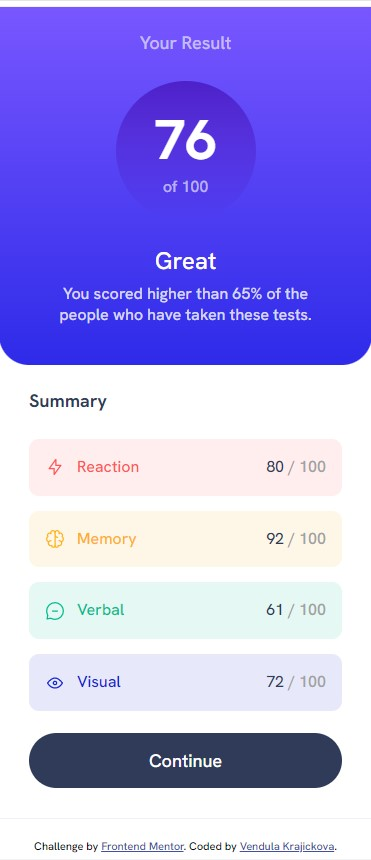
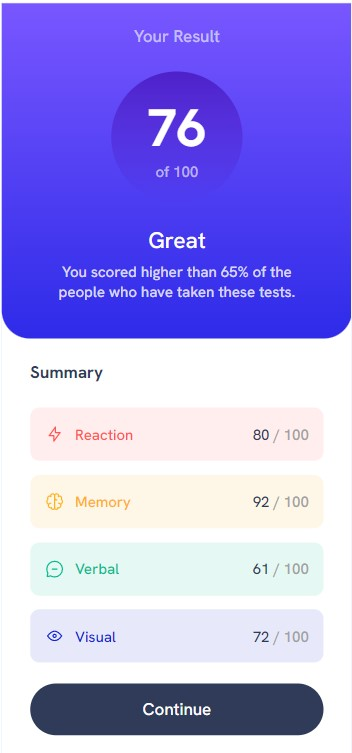
Final version

Changed region(s): [[0.0, 0.0, 1.0, 1.0], [0.4062, 0.1222, 0.5938, 0.2444], [0.7188, 0.5193, 0.7812, 0.5803]]

diff --git a/index.html b/index.html
@@ -34,65 +34,59 @@
     </defs>
   </svg>
 
-  <div class="wrap">
-    <div class="container">
+  <div class="container">
 
-      <div class="header">
-        <div class="header__title">Your Result</div>
-        <div class="header__score">
-          <p class="header__score--min">76</p>
-          <p class="header__score--max">of 100</p>
-        </div>
-
-        <div class="header__result">Great</div>
-        <div class="header__message">You scored higher than 65% of the people who have taken these tests.</div>
+    <div class="header">
+      <div class="header__title">Your Result</div>
+      <div class="header__score">
+        <p class="header__score--min">76</p>
+        <p class="header__score--max">of 100</p>
       </div>
 
-      <div class="content">
-        <p class="content__title">Summary</p>
-
-        <div class="section section--reaction">
-          <svg class="section__icon">
-            <use xlink:href="#icon-reaction"></use>
-          </svg>
-          <p class="section__title section__title--reaction">Reaction</p>
-          <p class="section__score"><span class="section__score--min">80</span> <span class="section__score--max">/ 100</span></p>
-        </div>
-
-        <div class="section section--memory">
-          <svg class="section__icon">
-            <use xlink:href="#icon-memory"></use>
-          </svg>
-          <p class="section__title section__title--memory">Memory</p>
-          <p class="section__score"><span class="section__score--min">92</span> <span class="section__score--max">/ 100</span></p>
-        </div>
-
-        <div class="section section--verbal">
-          <svg class="section__icon">
-            <use xlink:href="#icon-verbal"></use>
-          </svg>
-          <p class="section__title section__title--verbal">Verbal</p>
-          <p class="section__score"><span class="section__score--min">61</span> <span class="section__score--max">/ 100</span></p>
-        </div>
-
-        <div class="section section--visual">
-          <svg class="section__icon">
-            <use xlink:href="#icon-visual"></use>
-          </svg>
-          <p class="section__title section__title--visual">Visual</p>
-          <p class="section__score"><span class="section__score--min">72</span> <span class="section__score--max">/ 100</span></p>
-        </div>
-
-        <div class="button">
-           <p class="button__text">Continue</p>
-          </div>
-      </div>
+      <div class="header__result">Great</div>
+      <div class="header__message">You scored higher than 65% of the people who have taken these tests.</div>
     </div>
 
-    <div class="attribution">
-      Challenge by <a href="https://www.frontendmentor.io?ref=challenge" target="_blank">Frontend Mentor</a>. 
-      Coded by <a href="https://www.frontendmentor.io/profile/wendykr">Vendula Krajickova</a>.
+    <div class="content">
+      <p class="content__title">Summary</p>
+
+      <div class="section section--reaction">
+        <svg class="section__icon">
+          <use xlink:href="#icon-reaction"></use>
+        </svg>
+        <p class="section__title section__title--reaction">Reaction</p>
+        <p class="section__score"><span class="section__score--min">80</span> <span class="section__score--max">/ 100</span></p>
+      </div>
+
+      <div class="section section--memory">
+        <svg class="section__icon">
+          <use xlink:href="#icon-memory"></use>
+        </svg>
+        <p class="section__title section__title--memory">Memory</p>
+        <p class="section__score"><span class="section__score--min">92</span> <span class="section__score--max">/ 100</span></p>
+      </div>
+
+      <div class="section section--verbal">
+        <svg class="section__icon">
+          <use xlink:href="#icon-verbal"></use>
+        </svg>
+        <p class="section__title section__title--verbal">Verbal</p>
+        <p class="section__score"><span class="section__score--min">61</span> <span class="section__score--max">/ 100</span></p>
+      </div>
+
+      <div class="section section--visual">
+        <svg class="section__icon">
+          <use xlink:href="#icon-visual"></use>
+        </svg>
+        <p class="section__title section__title--visual">Visual</p>
+        <p class="section__score"><span class="section__score--min">72</span> <span class="section__score--max">/ 100</span></p>
+      </div>
+
+      <div class="button">
+         <p class="button__text">Continue</p>
+        </div>
     </div>
   </div>
+
 </body>
 </html>

diff --git a/css/style.css b/css/style.css
@@ -241,8 +241,4 @@ body {
   position: absolute;
   width: 0;
   top: 0;
-}
-
-.attribution {
-  margin-top: 1.25rem;
 }/*# sourceMappingURL=style.css.map */

diff --git a/style/style.scss b/style/style.scss
@@ -246,7 +246,3 @@ body {
     width: 0;
     top:0;
 }
-
-.attribution {
-    margin-top: 1.25rem;
-}
